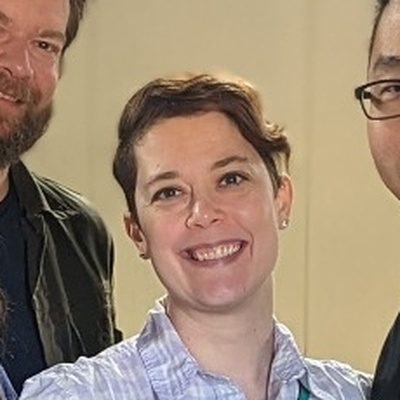
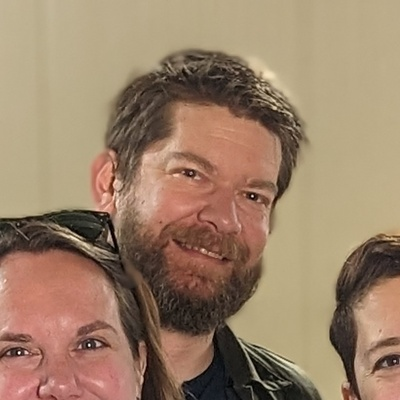
fix(headshot): update michelle_preston headshot & deployment

diff --git a/src/data/sampleData.js b/src/data/sampleData.js
@@ -1,4 +1,4 @@
-export const BUILD_TIMESTAMP = 1788754712465;
+export const BUILD_TIMESTAMP = 1788754804806;
 // Real Wedding Guest List Data - Auto-updated via Host Admin Suite
 export const COHORT_COLORS = {
   "The Couple": "#38bdf8",

diff --git a/scripts/recalibrate_with_opencv.py b/scripts/recalibrate_with_opencv.py
@@ -39,7 +39,7 @@ GUEST_CALIBRATION_SPECS = {
     "leslie_davisson": {"raw_source": "raw_sources/leslie_davisson__orig_media.jpg", "cx_pct": 0.500, "cy_pct": 0.400, "face_h_px": 302},
     "matt_hoying": {"raw_source": "raw_sources/matt_hoying__orig_media.jpg", "cx_pct": 0.500, "cy_pct": 0.450, "face_h_px": 236},
     "maureen_wink": {"raw_source": "raw_sources/maureen_wink__orig_media.jpg", "cx_pct": 0.500, "cy_pct": 0.450, "face_h_px": 236},
-    "michelle_preston": {"raw_source": "raw_sources/michelle_preston__orig_media__1788716008.jpg", "cx_pct": 0.540, "cy_pct": 0.295, "face_h_px": 136},
+    "michelle_preston": {"raw_source": "raw_sources/michelle_preston__orig_media.jpg", "cx_pct": 0.337, "cy_pct": 0.210, "face_h_px": 480},
     "nishat_shaikh": {"raw_source": "raw_sources/nishat_shaikh__orig_media__1788683256461.jpg", "cx_pct": 0.496, "cy_pct": 0.371, "face_h_px": 386},
     "nur_e_freedman": {"raw_source": "raw_sources/nur_e_freedman__orig_media__1788681045.jpg", "cx_pct": 0.500, "cy_pct": 0.312, "face_h_px": 203},
     "nichole_remmert": {"raw_source": "raw_sources/nichole_remmert__orig_media__1788715326751.jpg", "cx_pct": 0.675, "cy_pct": 0.585, "face_h_px": 158},
